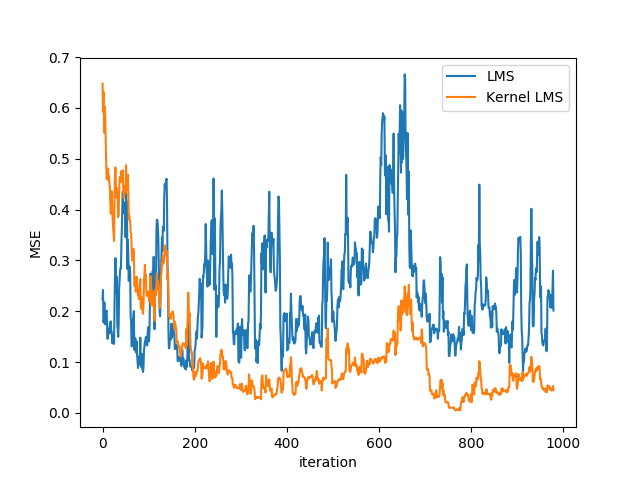
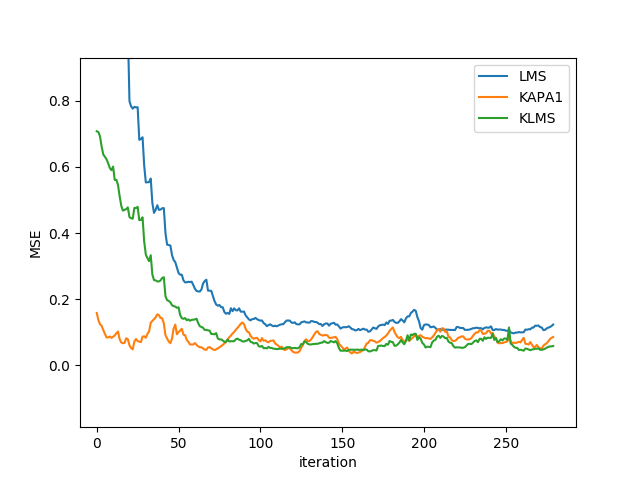
add kapa1

diff --git a/channel_eq.py b/channel_eq.py
@@ -3,6 +3,7 @@ import numpy
 
 from LMS import LMS
 from KLMS import KLMS
+from KAPA import KAPA1
 
 
 def gen_test_data():
@@ -25,8 +26,8 @@ def gen_test_data():
     D = 2
 
     # data size
-    N_tr = 1000
-    N_te = 5
+    N_tr = 300
+    N_te = 10
 
     # train data
     X = numpy.zeros((N_tr, TD))
@@ -51,6 +52,14 @@ def gen_test_data():
     return X, X_te, T, T_te, TD
 
 
+def gen_sin_data():
+    X = numpy.arange(0, 2 * numpy.pi, numpy.pi / 1000)
+    T = numpy.sin(X)
+    X_te = numpy.arange(0, 2 * numpy.pi, numpy.pi / 10)
+    T_te = numpy.sin(X_te)
+    return X, X_te, T, T_te, 1
+
+
 def get_training_error(adap_filter, X, X_te, T, T_te, TD):
     N_tr = X.shape[0]
     N_te = X_te.shape[0]
@@ -70,7 +79,14 @@ def get_training_error(adap_filter, X, X_te, T, T_te, TD):
 if __name__ == '__main__':
 
     X, X_te, T, T_te, TD = gen_test_data()
-    filters = [LMS(TD, 0.01), KLMS(TD, X[0], T[0], 0.2, 2.25)]
+    # X, X_te, T, T_te, TD = gen_sin_data()
+
+    filters = [
+        LMS(TD, 0.01),
+        KAPA1(X[0], T[0], 10, 0.2, 2.25),
+        KLMS(TD, X[0], T[0], 0.2, 2.25),
+    ]
+
     for fi in filters:
         err = get_training_error(fi, X, X_te, T, T_te, TD)
         plt.plot(err[20:], label=fi.name())

diff --git a/KAPA.py b/KAPA.py
@@ -1,0 +1,38 @@
+import numpy as np
+
+
+class KAPA1:
+
+    def __init__(self, u_0, d_0, K, eta, sigma):
+        self.a = [eta * d_0]
+        self.u = [u_0]
+        self.d = [d_0]
+        self.eta = eta
+        self.K = K
+        self.sigma = sigma
+
+    def kernel(self, a, b):
+        norm = np.linalg.norm(a - b)
+        term = (norm * norm) / (2 * self.sigma * self.sigma)
+        return np.exp(-1 * term)
+
+    def predict(self, x):
+        ans = 0
+        for i in range(len(self.a)):
+            ans += self.a[i] * self.kernel(self.u[i], x)
+        return ans
+
+    def update(self, x, d):
+        tmp = len(self.a)
+        for i in range(max(0, tmp - self.K), tmp):
+            y = self.predict(self.u[i])
+            e = self.d[i] - y
+            self.a[i] += self.eta * e
+
+        error = d - self.predict(x)
+        self.u.append(x)
+        self.a.append(self.eta * error)
+        self.d.append(d)
+
+    def name(self):
+        return 'KAPA1'
